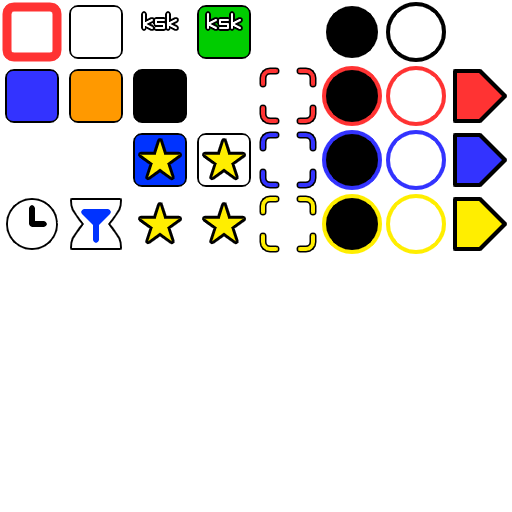
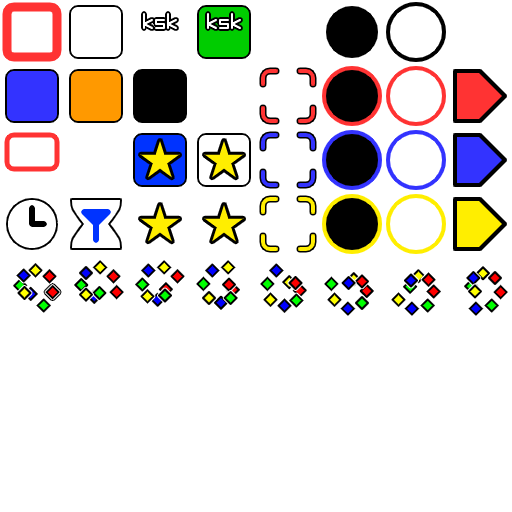
'3', 'S'

diff --git a/tool/tex12/index.js b/tool/tex12/index.js
@@ -1163,12 +1163,17 @@ c.fill();
       c.lineTo(x + q, y + q*3);
 */
       c.moveTo(x + q*2, y + q);
-      c.arcTo(x + q*3, y + q, x + q*3, y + q*2, q); // 右上
-      c.arcTo(x + q*3, y + q*3, x + q*2, y+q*3, q); // 右下
-      c.arcTo(x + q, y + q*3, x + q, y + q*2, q); // 左下
-      c.arcTo(x + q, y + q, x + q*2, y + q, q);
+      c.arcTo(x + q*3, y + q, x + q*3, y + q*2, q * 0.75); // 右上
+      c.arcTo(x + q*3, y + q*3, x + q*2, y+q*3, q * 0.75); // 右下
+      c.arcTo(x + q, y + q*3, x + q, y + q*2, q * 0.75); // 左下
+      c.arcTo(x + q, y + q, x + q*2, y + q, q * 0.75);
+      c.lineTo(x + q * 2, y + q);
 
-      c.closePath();
+      const ad1 = q * 0.5;
+      c.moveTo(x + q * 3 - ad1, y + q * 1 + ad1);
+      c.lineTo(x + q * 1 + ad1, y + q * 3 - ad1);
+
+      //c.closePath();
 
       c.lineWidth = out;
       c.strokeStyle = outc;
@@ -1234,7 +1239,7 @@ c.fill();
       c.arcTo(x+q*3,y+q*2, x+q*3,y+q*2.5, q*0.5);
       c.arcTo(x+q*3,y+q*3, x+q*2.5,y+q*3, q*0.5);
       c.arcTo(x + q * 1, y + q*3, x+q,y+q*2.5, q*0.5);
-      c.moveTo(x + q * 2, y + q * 2); // ここ
+      c.moveTo(x + q * 2.25, y + q * 2); // ここ 2.0
       c.lineTo(x + q * 2.5, y + q * 2);
 
         c.lineWidth = out;
@@ -1857,14 +1862,15 @@ c.fill();
     { // S
       x = side * 3;
       y = side * 6;
+      const ad2 = 0.25 * q;
 
       c.beginPath();
-      c.moveTo(x + q*3, y + q); // 右上
+      c.moveTo(x + q*3 - ad2, y + q); // 右上
       c.arcTo(x + q, y + q, x+q,y+q*2, q*0.5);
       c.arcTo(x + q, y + q * 2, x+q*2,y+q*2, q*0.5);
       c.arcTo(x + q*3, y + q*2, x+q*3,y+q*3, q*0.5);
       c.arcTo(x + q*3, y + q*3, x+q*2,y+q*3, q*0.5);
-      c.lineTo(x + q, y + q* 3);
+      c.lineTo(x + q + ad2, y + q* 3);
       c.lineWidth = out;
       c.strokeStyle = outc;
       c.stroke();
@@ -2095,9 +2101,6 @@ c.fill();
    */
   init() {
     console.log(`init called`);
-    this.drawNum(cv00, { width: 256, height: 256,
-      side: 64, out: 14, inw: 8
-    });
 
     drawCard(cv01);
     drawCard2(cv01);
@@ -2107,10 +2110,6 @@ c.fill();
 
     this.drawChar(cv05, true, true);
     this.drawIcon(cv06);
-
-    this.drawNum(cv07, { width: 128, height: 128,
-      side: 32, out: 7, inw: 4
-    });
 
     drawCard(window.cv11, 32);
     drawCard2(window.cv11, 32);

diff --git a/tool/tex12/index.html b/tool/tex12/index.html
@@ -9,8 +9,6 @@
   <body>
 テクスチャ12 アカシック 本命
     <div>
-      cv00 数字のみ<br />
-      <canvas id='cv00' width='512' height='512'></canvas><br />
       cv02<br />
       <canvas id='cv02' width='512' height='512'></canvas><br />
       cv03<br />
